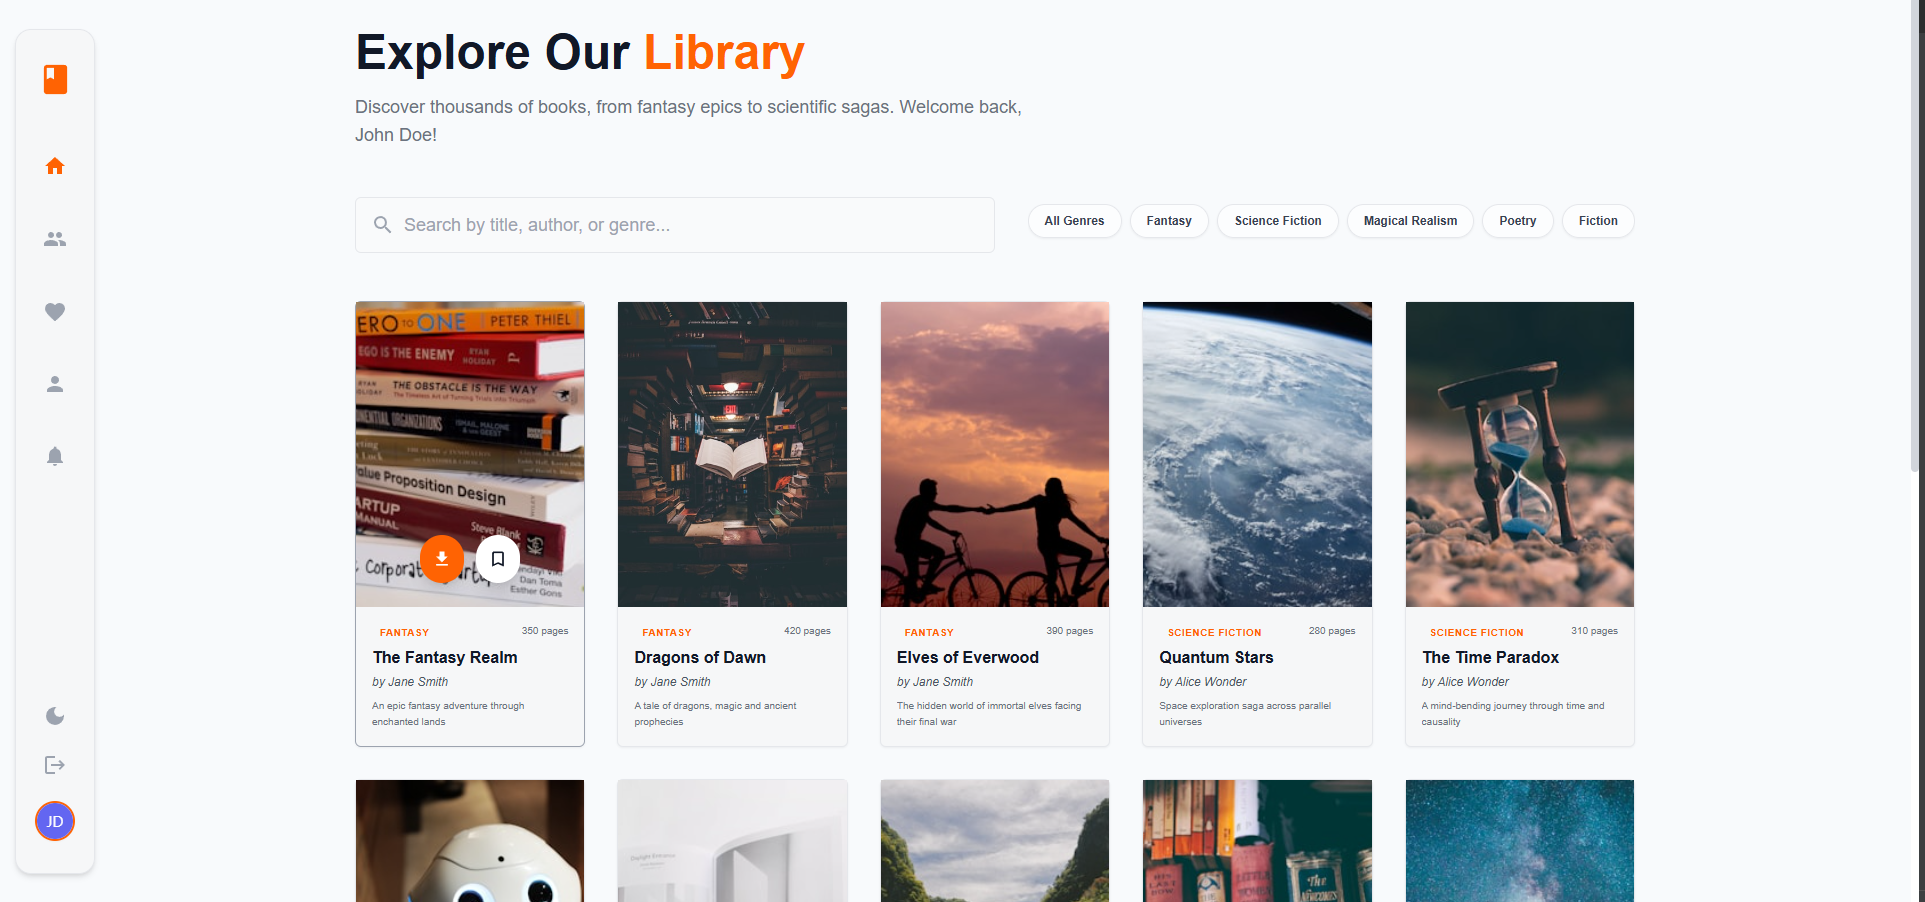
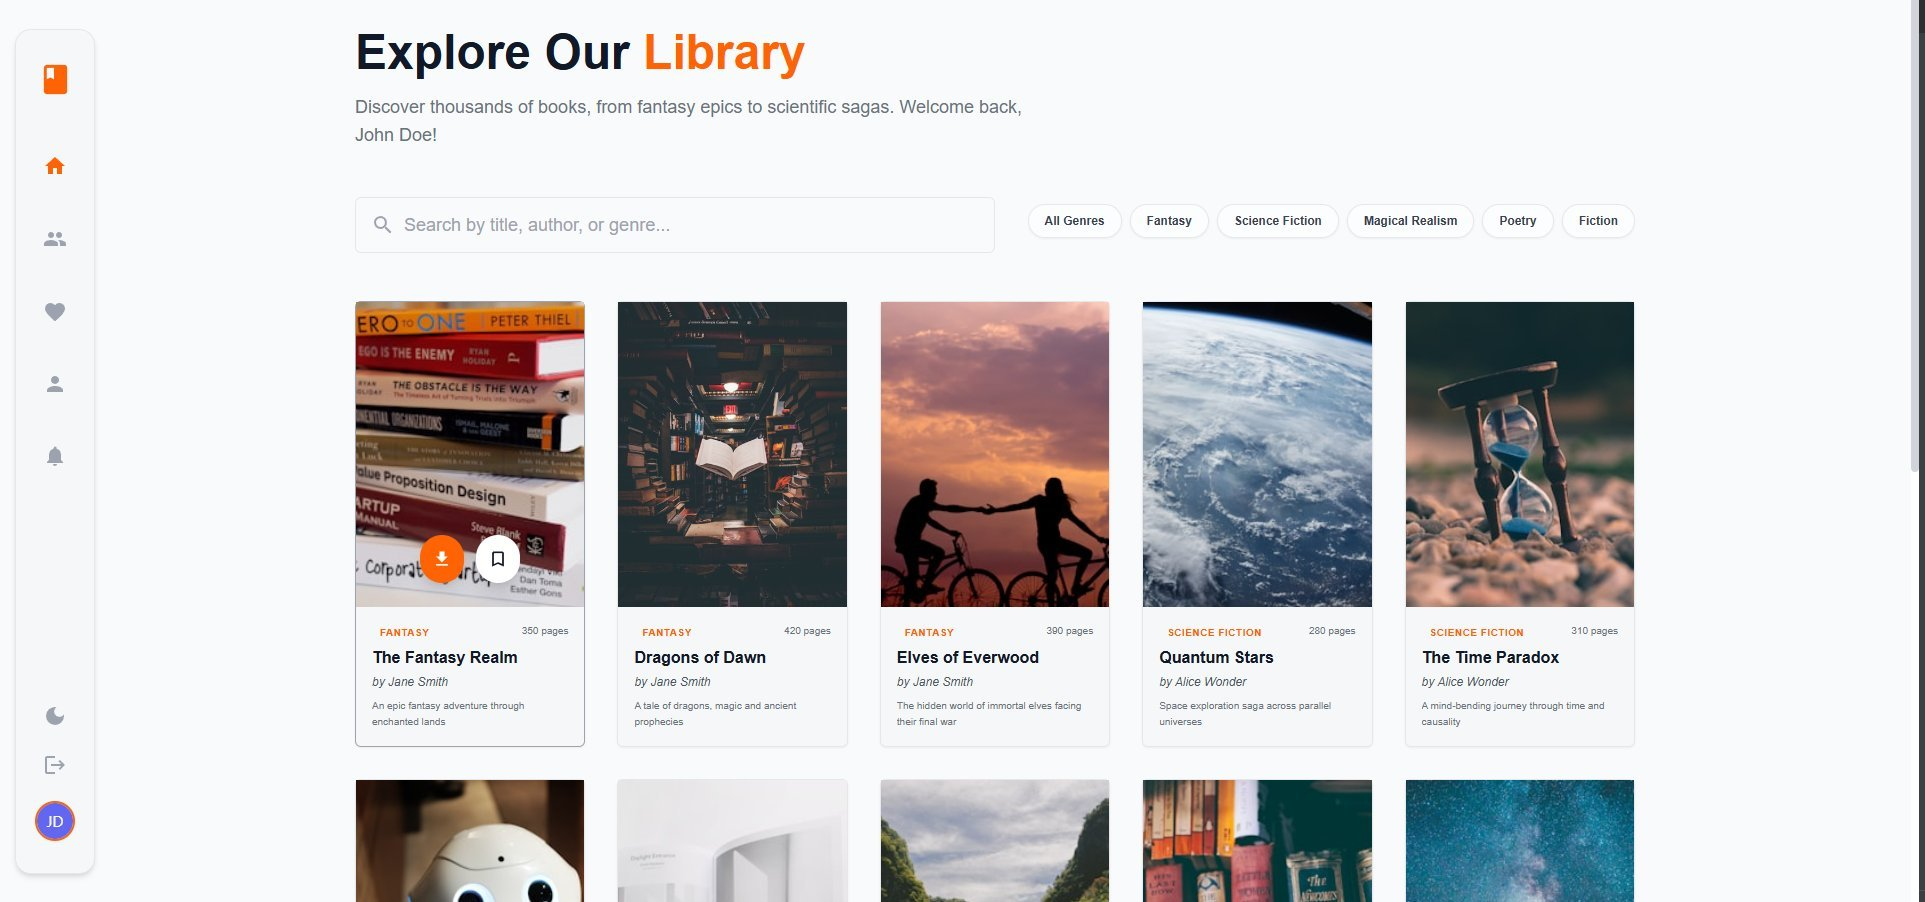
portafolio finalizado

diff --git a/src/routes/index.tsx b/src/routes/index.tsx
@@ -41,7 +41,7 @@ import {
   type Project,
 } from "@/lib/portfolio-data";
 import { ProjectGenerativeCard } from "@/components/ProjectGenerativeCard";
-import nahuelPhoto from "@/assets/nahuel.jpg";
+const nahuelPhoto = "/nahuel.jpg";
 
 export const Route = createFileRoute("/")({
   head: () => ({
